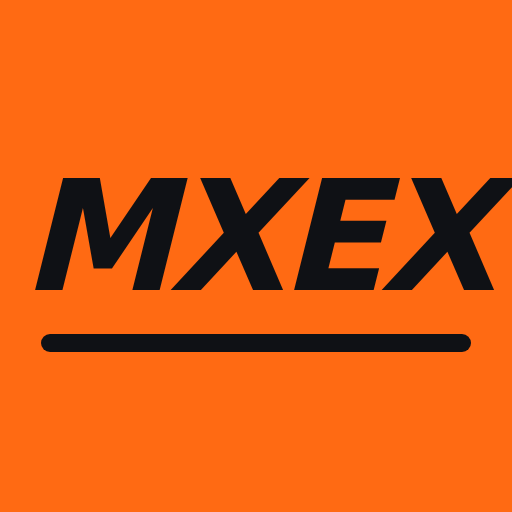
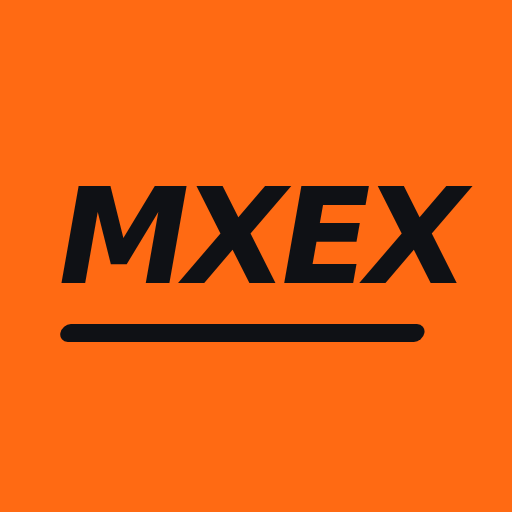
Rak logga i appen, lätt lutad text i app-ikonen

Changed region(s): [[0.0625, 0.3438, 1.0, 0.5938], [0.0625, 0.625, 0.9375, 0.6875]]

diff --git a/src/components/Header.tsx b/src/components/Header.tsx
@@ -4,15 +4,13 @@ import { useSafeAreaInsets } from 'react-native-safe-area-context';
 import Svg, { Text as SvgText } from 'react-native-svg';
 import { C } from './ui';
 
-/** MXEX-logga: vit text, svart kontur och tunn vit linje utanför, lätt lutad. */
+/** MXEX-logga: vit text, svart kontur och tunn vit linje utanför (rak – bara app-ikonen lutar). */
 export function Logo({ height = 44 }: { height?: number }) {
   const w = height * 3.3;
   const fs = height * 0.82;
   const common = {
     x: w / 2,
     textAnchor: 'middle' as const,
-    // Lätt lutning åt höger (halva den ursprungliga).
-    transform: `translate(${height * 0.17} 0) skewX(-12)`,
     y: height * 0.8,
     fontSize: fs,
     fontWeight: '900' as const,
